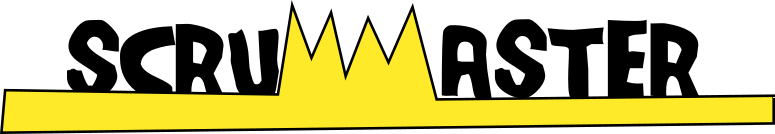
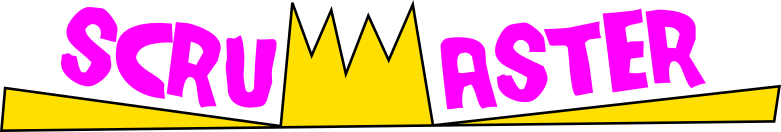
home component signin included

diff --git a/ScrumMasterClient/src/App.scss b/ScrumMasterClient/src/App.scss
@@ -40,7 +40,10 @@ $screen-xl-min: 1200px;
       @content;
   }
 }
-
+// custom Fonts
+@import url('https://fonts.googleapis.com/css?family=Macondo+Swash+Caps&display=swap');
+@import url('https://fonts.googleapis.com/css?family=Gloria+Hallelujah|Macondo+Swash+Caps&display=swap');
+@import url('https://fonts.googleapis.com/css?family=Gloria+Hallelujah|Macondo+Swash+Caps|Quantico&display=swap');
 
 .App {
   text-align: center;
@@ -136,25 +139,23 @@ nav {
   flex-direction: column;
   align-items: center;
 }
+
+/*****************************
+   CURRENT SCRUM MASTER USER
+*****************************/
 .user {
   
-  font-family: 'VT323', monospace;
+  font-family: 'Quantico', sans-serif;
+  size: 40px;
   width:100%; 
   display:block;
 }
 
-.center {
-  
-  margin-left: auto;
-  margin-right: auto;
-  width: 60%;
-}
-
-.homeContainer {
-  display: flex;
-}
 
 .genericAvatar {
+  display: block;
+  
+  
   width: 200px;
   height: 200px;
 }
@@ -166,15 +167,64 @@ nav {
   border-radius: 50%;
 }
 
-.name {
-  display: block;
+.box {
+  display: inline-block;
   border: 2px inset black;
   width: 200px;
   text-align: center;
   padding: 0.5em;
-  font-family: 'VT323', monospace;
+  font-family: 'Quantico', sans-serif;
   
 }
+
+.name .points {
+  display: inline-block;
+  padding: 0.5em;
+  font-family: 'Quantico', sans-serif;
+  
+}
+/*****************************
+      GENERIC STYLES
+*****************************/
+.rowsCenter {
+  display:flex;
+  flex-direction: row;
+  align-items: center;
+}
+.center {
+  
+  margin-left: auto;
+  margin-right: auto;
+  width: 60%;
+}
+
+.column {
+  display:flex;
+  flex-direction: column;
+  align-items: center;
+}
+
+/*****************************
+        HOME
+*****************************/
+.homeContainer {
+  width: 100%;
+  height: 100%;
+  display: flex;
+  flex-direction: column;
+  align-items: center;
+}
+
+.titleImg {
+  width: 100%;
+  height:100px;
+  
+}
+
+
+/*****************************
+        PROGRESS BAR
+*****************************/
 .progress {
   
   background-color:royalblue;
@@ -201,12 +251,32 @@ nav {
   height:60px;
   padding-right:10px;
 }
-// ////////  QUOTE STYLISH /////////////////
-
-.quoteContainer {
-
+/*****************************
+        QUOTE
+*****************************/
+#quote-card-content{
+  width:50%;
+}
+.quote {
+  
+  font-family: 'Quantico', sans-serif;
 }
 
 .author {
   
+font-family: 'Quantico', sans-serif;
+}
+
+/*****************************
+        DESCRIPTION
+*****************************/
+.description {
+  
+  font-size: 1.2em;
+  font-family: 'Macondo Swash Caps', cursive;
+}
+
+.smallIcons{
+  width: 30px;
+  height: 30px;
 }

diff --git a/ScrumMasterClient/src/components/home/DescriptionComponent.tsx b/ScrumMasterClient/src/components/home/DescriptionComponent.tsx
@@ -1,0 +1,28 @@
+import React from 'react';
+ import cave from '../../assets/cave.png';
+import dragon from '../../assets/dragon.png';
+import chest from '../../assets/chest.png';
+import sword from '../../assets/msword.png';
+import icon from '../../assets/snitch.png';
+import help from '../../assets/bulb.png';
+
+const Description = () => {
+    return (
+        <div className="description">
+            <h2>Do you have what it takes to become the next Scrum Master?</h2>
+            <p>
+            Follow the path of the code maker, increase your knowledge
+            in Java, JavaScript, React, Node, Hibernate, Spring, SQL, and more. <br/> 
+            Refresh your head in a pool of  multiple choice questions 
+            enter the dark cave <img className="smallIcons"src={cave}/>  to be challenge with our code maker open ended programming syntax input box. <br/>
+            where your experience points double, use the sword <img className="smallIcons" src={sword}/>to slide the dragon's doubt <img  className="smallIcons" src={dragon}/> and get the loot <img className="smallIcons" src={chest}/> to buy <br/>
+            available items at the store including customized icons <img className="smallIcons" src={icon}/> and question helpers.<img className="smallIcons" src={help}/><br/>
+            <br/>
+            <h4>The user with the most points overall will be named, The Scrum Master.</h4>
+                 
+            </p>
+            </div>
+    )
+}
+
+export default Description;

diff --git a/ScrumMasterClient/src/components/QuoteComponent.tsx b/ScrumMasterClient/src/components/QuoteComponent.tsx
@@ -1,4 +1,5 @@
 import React from 'react';
+import { Card, CardBody, Row, CardTitle } from 'reactstrap';
 
 interface iQuote {
     quote: string;
@@ -28,16 +29,14 @@ export class QuoteComponent extends React.Component<any,iQuote> {
 
     render() {
         return (
-            <div className="something" >
-            <div className="quoteContainer">
-                <h3 className="quote">{this.state.quote}</h3>
-                <p className="author">{this.state.author}</p>
-            </div>
-            <div className="Description">
-            <h2>Do you have what it takes to become the next Scrum Master?</h2>
-            <p>Follow the path of the code maker, increase your knowledge, slay the dragon of inner ignorance, get the loot, become the next next Scrum Master. </p>
-            </div>
-            </div>
+     
+<Card id="quote-card-content">
+<CardBody className="justify-content-center text-center">    
+    <Row className="justify-content-center"><CardTitle><h5  className="quote">{this.state.quote}</h5></CardTitle></Row>
+    <Row className="justify-content-center"><CardTitle><h5 className="author">{this.state.author}</h5></CardTitle></Row>
+</CardBody>
+</Card>
+
         );
     } 
 }

diff --git a/ScrumMasterClient/src/components/home/home.component.tsx b/ScrumMasterClient/src/components/home/home.component.tsx
@@ -5,23 +5,34 @@ import { User } from '../../model/user';
 import ProgressBarComponent from '../ProgressComponent';
 import QuoteComponent from '../QuoteComponent';
 import { Card, CardBody, CardTitle, Row, Container } from 'reactstrap';
+import Description from './DescriptionComponent';
+import SignInComponent from '../sign-in/SignInComponent';
 
 export class HomeComponent extends React.Component {
   
-  aUser = new User(1,"jd","none","Jehudi");
+  aUser = new User(0,"UNKNOWN","none","UNKNOWN");
   
   render() {
     return (
-      <>
-      <Title />
-      <UserCard user={this.aUser}/>
-      <div className="homeContainer">
       
+      <div className="homeContainer">
+      <div className="columns">
+      <Title />
+      <div className="rowsCenter">
+      
+      <UserCard user={this.aUser}/>
+      <SignInComponent />
+      </div>
+      
+      <div className="columns">
+      <Description />
       
       <QuoteComponent />
       <ProgressBarComponent />
         </div>
-        </>
+        </div>
+      </div> // container column
+        
     );
   }
 }

diff --git a/ScrumMasterClient/src/components/userCard.tsx b/ScrumMasterClient/src/components/userCard.tsx
@@ -9,14 +9,13 @@ export class UserCard extends React.Component<Iuser> {
     render() {
     
       return (
-        <div className="center">
+        <div className="column">
         <img src={avatar}
             className="genericAvatar"
             alt="..." />
-        <div className="container">
-        <span className="name">Username: {this.props.user.username}</span>
-        <span className="user">UnknowN</span></div>
-        
+        <span className="name">Name: </span><span className="box"> {this.props.user.username}</span>
+        <span className="points">Points: </span><span className="box">00000</span>
+    
         </div>
 
 
